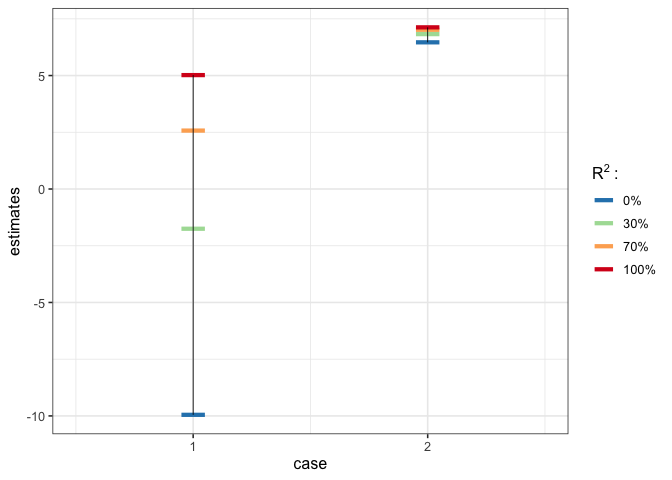
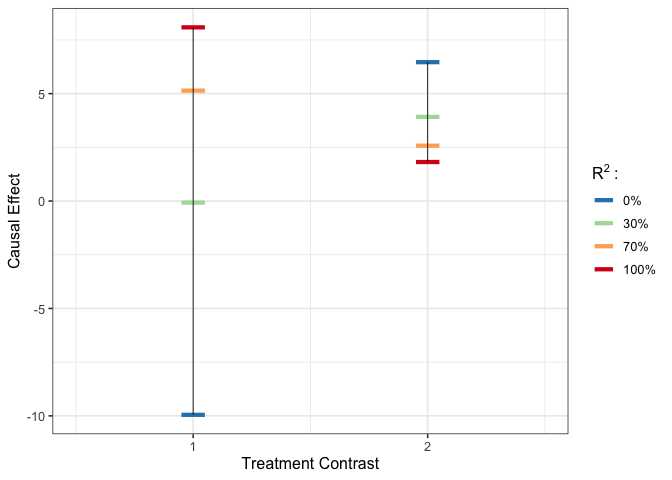
return rv from gcalibrate for worstcase and show in plot

diff --git a/README.md b/README.md
@@ -51,28 +51,19 @@ y <- GaussianT_GaussianY$y
 tr <- subset(GaussianT_GaussianY, select = -c(y))
 
 # execute worst-case calibration #
-est_g1 <- gcalibrate(y = y, tr = tr, t1 = tr[1:2,], t2 = tr[3:4,],
+est_g1 <- gcalibrate(y = y, tr = tr, t1 = tr[c(1,2,1698),], tr[c(3,4,6698),],
                      calitype = "worstcase", R2 = c(0.6, 1))
 #> Fitting the latent confounder model by PPCA with default.
 #> 1:2:3:4:5:6:7:8:9:10:1:2:3:4:5:6:7:8:9:10:1:2:3:4:5:6:7:8:9:10:1:2:3:4:5:6:7:8:9:10:1:2:3:4:5:6:7:8:9:10:
 #> Observed outcome model fitted by simple linear regression with default.
 #> Worst-case calibration executed.
 # visualize #
-plot_estimates(est_g1)
+plot_estimates(est_g1, show_rv = TRUE)
 ```
 
 <img src="man/figures/README-gaussian-outcome-example-1.png" width="85%" style="display: block; margin: auto;" />
 
 ``` r
-# calculate robustness value #
-rv <- cal_rv(y = y, tr = tr, t1 = tr[c(1,2,1698),], t2 = tr[c(3,4,6698),])
-#> Fitting the latent confounder model by PPCA with default.
-#> 1:2:3:4:5:6:7:8:9:10:1:2:3:4:5:6:7:8:9:10:1:2:3:4:5:6:7:8:9:10:1:2:3:4:5:6:7:8:9:10:1:2:3:4:5:6:7:8:9:10:
-#> Observed outcome model fitted by simple linear regression with default.
-print(rv)
-#>        1        2     1698 
-#> "0.2968" "0.3407" "robust"
-
 # execute multivariate calibration #
 est_g2 <- gcalibrate(y = y, tr = tr, t1 = tr[1:10,], t2 = tr[11:20,],
                      calitype = "multicali", penalty_weight = c(0, 15))
